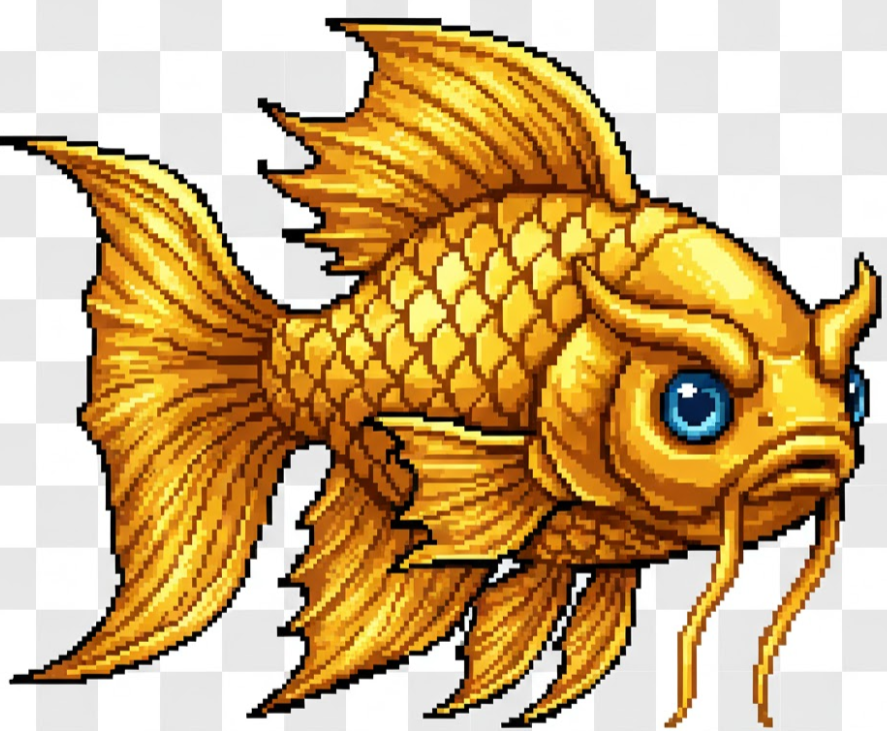
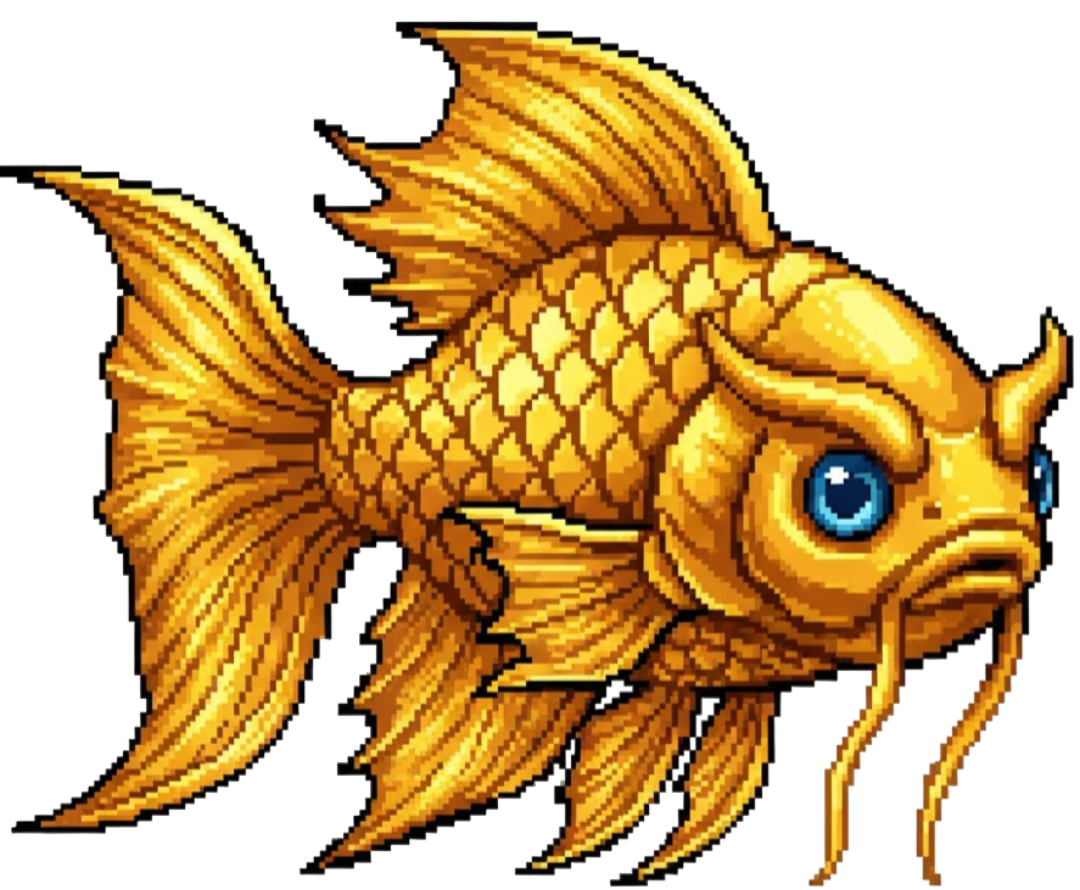
-22.27 add goldfish

diff --git a/Kail.java b/Kail.java
@@ -38,7 +38,7 @@ public class Kail extends Actor {
             // Ya, kena. Ambil nilainya, hapus ikannya.
             ((GameWorld) getWorld()).addScore(common.getValue());
             ((GameWorld) getWorld()).addFishCollected(1);
-            ((GameWorld) getWorld()).addCoins(GameWorld.COIN_REWARD_COMMON);
+            addCoinsToWorld(common.getCoinReward());
             getWorld().removeObject(common);
             return; // 'return' agar berhenti di sini & tidak tangkap 2 ikan sekaligus
         }
@@ -49,7 +49,7 @@ public class Kail extends Actor {
             // Ya, kena.
             ((GameWorld) getWorld()).addScore(rare.getValue());
             ((GameWorld) getWorld()).addFishCollected(1);
-            ((GameWorld) getWorld()).addCoins(GameWorld.COIN_REWARD_RARE);
+            addCoinsToWorld(rare.getCoinReward());
             getWorld().removeObject(rare);
             return;
         }
@@ -60,10 +60,23 @@ public class Kail extends Actor {
             // Ya, kena.
             ((GameWorld) getWorld()).addScore(epic.getValue());
             ((GameWorld) getWorld()).addFishCollected(1);
-            ((GameWorld) getWorld()).addCoins(GameWorld.COIN_REWARD_EPIC);
+            addCoinsToWorld(epic.getCoinReward());
             getWorld().removeObject(epic);
             return;
         }
+        
+        GoldFish gold = (GoldFish) getOneIntersectingObject(GoldFish.class);
+        if(gold != null) {
+            // Ambil nilai dari ikan (bukan hardcoded)
+        addScoreToWorld(gold.getValue());
+        addCoinsToWorld(gold.getCoinReward());
+            
+            // Kunci tetap bonus spesial dari Kail
+        addKeyItemToWorld();
+
+         getWorld().removeObject(gold);
+        return; // Penting!
+         }
         
         Treasure treasure = (Treasure) getOneIntersectingObject(Treasure.class);
 
@@ -78,6 +91,8 @@ public class Kail extends Actor {
             return; // Stop processing this act cycle
         }
     }
+    
+    
 
     private void followBoatX() {
         setLocation(owner.getX(), getY()); // selalu sejajar X dengan boat
@@ -118,5 +133,26 @@ public class Kail extends Actor {
             // mouseHolding = false;
         }
     }*/
+    private void addCoinsToWorld(int amount) {
+    // Karena Anda hanya pakai GameWorld, ini aman
+    ((GameWorld)getWorld()).addCoins(amount);
+    }
     
-}
+    private void addScoreToWorld(int score) {
+        // Ini method yang hilang untuk GoldFish
+        ((GameWorld)getWorld()).addScore(score);
+    }
+    
+    private void addFishCollectedToWorld(int amount) {
+        // Ini method yang hilang untuk ikan biasa
+        ((GameWorld)getWorld()).addFishCollected(amount);
+    }
+    private void addKeyItemToWorld() {
+        World world = getWorld(); 
+        if (world instanceof GameWorld) {
+            // addKeyItem() mengembalikan boolean, tapi kita tidak perlu menangkapnya di sini
+            ((GameWorld)world).addKeyItem();
+        }
+        // (Nanti tambahkan 'else if (world instanceof Map2)' di sini jika perlu)
+    }
+}   

diff --git a/GameWorld.java b/GameWorld.java
@@ -35,9 +35,6 @@ public class GameWorld extends World {
     private int dashCapacity;
     private int dashCharges;
     
-    public static final int COIN_REWARD_COMMON = 5;
-    public static final int COIN_REWARD_RARE = 12;
-    public static final int COIN_REWARD_EPIC = 25;
     public static final int COIN_REWARD_TREASURE = 40;
 
     private static final int LONG_SPEAR_MAX_LEVEL = 3;
@@ -53,6 +50,7 @@ public class GameWorld extends World {
     //Boss
     private boolean bossHasSpawned = false;
     private int bossSpawnTime = 120; // 300s - 180s = 120s left
+    private boolean goldFishGuaranteedSpawn = false;
     
     public GameWorld(int stageNum) {
         super(960, 540, 1, false);
@@ -175,6 +173,11 @@ public class GameWorld extends World {
         
         if (life <= 0) {
             triggerGameOver("You Died!");
+        }
+        
+        if (!goldFishGuaranteedSpawn && timeLeft <= 60) {
+            spawnGoldFish();
+            goldFishGuaranteedSpawn = true; // Set flag agar tidak spawn lagi
         }
     }
     
@@ -385,7 +388,7 @@ public class GameWorld extends World {
                 c.setValue(4); // Skor 3
                 c.setCoinReward(5); // Koin 5
             }
-            // ---
+            // ---  
             
             int width = GameSettings.commonFishSize[category][0] - difficultyMod;
             int height = GameSettings.commonFishSize[category][1] - difficultyMod;
@@ -426,6 +429,31 @@ public class GameWorld extends World {
             EnemyPuffer puffer = new EnemyPuffer(health);
             int yPuffer = Greenfoot.getRandomNumber(getHeight() - 200) + 300;
             addObject(puffer, -50, yPuffer);
+        }
+        
+        if (!goldFishGuaranteedSpawn) {
+        int goldRoll = Greenfoot.getRandomNumber(100); // 0-99
+        if (goldRoll == 0) { // Hanya jika angka 0 (1% chance)
+            spawnGoldFish();    goldFishGuaranteedSpawn = true; // Anggap ini juga memenuhi spawn
+        }
+        }
+    }
+    
+    private void spawnGoldFish() {
+    GoldFish goldie = new GoldFish();
+
+    int yPos = Greenfoot.getRandomNumber(getHeight() - 200) + 300; // Area air
+
+    // Acak sisi
+    int side = Greenfoot.getRandomNumber(2);
+    if (side == 5) {
+        // Muncul di KIRI, bergerak ke KANAN
+        goldie.setDirection(1); 
+        addObject(goldie, -50, yPos);
+    } else {
+        // Muncul di KANAN, bergerak ke KIRI
+        goldie.setDirection(-1); 
+        addObject(goldie, getWidth() + 50, yPos);
         }
     }
     

diff --git a/GoldFish.java b/GoldFish.java
@@ -1,0 +1,71 @@
+import greenfoot.*;
+
+/**
+    
+ */
+public class GoldFish extends Actor {
+    private int speed = 4; // Dia lebih cepat dari ikan biasa
+    private int direction;
+    private int bob = 0;
+    private int value = 100;
+    private int coinReward = 200;
+
+    public GoldFish() {
+        setImage("ikanemas.png");
+        GreenfootImage img = getImage();
+        img.scale(80, 60); // Atur ukuran ikan emas (sesuaikan)
+        setImage(img);
+    }
+    
+    /**
+     * Dipanggil oleh GameWorld untuk menentukan arah gerak
+     */
+    public void setDirection(int dir) {
+        this.direction = dir;
+        if (dir == -1) { // Bergerak ke kiri
+            getImage().mirrorHorizontally();
+        }
+        // Jika dir == 1 (bergerak ke kanan), gambar tidak perlu dibalik
+    }
+
+    public void act() {
+        if (getWorld() == null) return; // Hentikan jika sudah dihapus
+        move();
+        checkBoundary();
+    }
+
+    /**
+     * Bergerak horizontal + bobbing (naik/turun)
+     */
+    private void move() {
+        int x = getX() + (speed * direction);
+        bob = (bob + 1) % 40; // Siklus 40 frame
+        int offset = (bob < 20) ? 1 : -1; // 20 frame naik, 20 frame turun
+        int y = getY() + offset;
+        setLocation(x, y);
+    }
+
+    /**
+     * Hapus ikan jika sudah keluar layar
+     */
+    private void checkBoundary() {
+        World w = getWorld();
+        if (w == null) return;
+        int half = getImage().getWidth() / 2;
+        
+        // Logika realistis (hilang setelah seluruh badan keluar)
+        if (direction < 0 && getX() + half <= 0) {
+            w.removeObject(this);
+        } else if (direction > 0 && getX() - half >= w.getWidth()) {
+            w.removeObject(this);
+        }
+    }
+    
+    public int getValue() {
+        return this.value;
+    }
+    
+    public int getCoinReward() {
+        return this.coinReward;
+    }
+}
